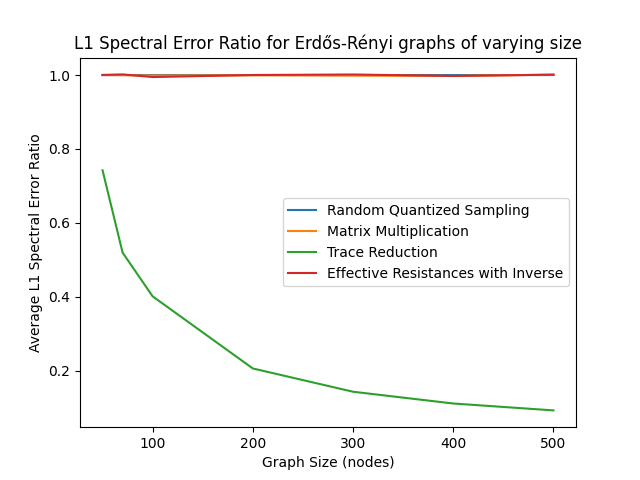
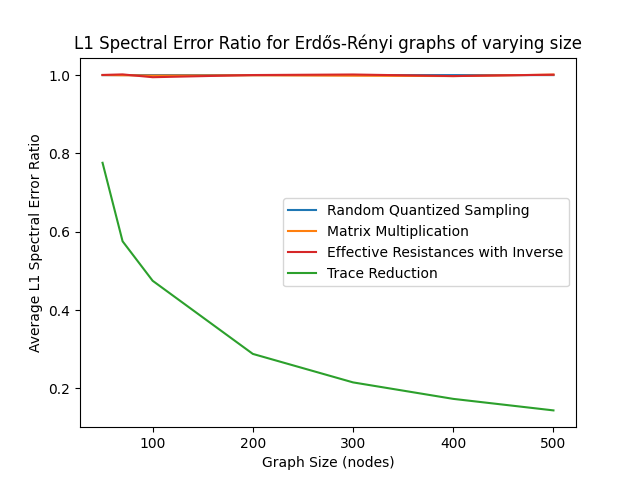
updated plots

diff --git a/exp_condNum.py b/exp_condNum.py
@@ -24,10 +24,10 @@ names = ["RQS", "MM", "TR", "EFI"]
 methods = [methodsMapObj.getMethod(name) for name in names]
 
 graph_gen_size = get_random_weighted_graph
-sizes = [50, 70, 100, 200, 300, 400]#, 500]
+sizes = [50, 70, 100, 200, 300, 400, 500]
 
 graph_gen_density = lambda p : get_random_weighted_graph(100, p)
-p_values = [.1, .15, .2, .25, .3, .4, .5, .6]#, .7, .8]
+p_values = [.1, .15, .2, .25, .3, .4, .5, .6, .7, .8]
 
 
 EXP_NAME = "condNum_comparison_size"
@@ -71,7 +71,7 @@ plt.cla()
 graph_gen_size = get_random_unweighted_graph
 
 EXP_NAME = "condNum_comparison_unweighted_size"
-condition_number_comparison(EXP_NAME, names, methods, graph_gen_size, sizes, eps)
+#condition_number_comparison(EXP_NAME, names, methods, graph_gen_size, sizes, eps)
 
 exp = load(EXP_NAME)
 fix_keys(exp)
@@ -81,7 +81,7 @@ for name in Y_methods.keys():
   Y = Y_methods[name]
   plt.plot(X, Y, label=methodsMapObj.getLabel(name), c=methodsMapObj.getColor(name))
 
-plt.title("Approximate Condition Number for Unweighted Erdős-Rényi graphs of varying size")
+plt.title("Approximate Condition Number for\nUnweighted Erdős-Rényi graphs of varying size")
 plt.xlabel("Graph Size (nodes)")
 plt.ylabel("Approximate Condition Number")
 plt.legend()
@@ -100,7 +100,7 @@ for name in Y_methods.keys():
   Y = Y_methods[name]
   plt.plot(X, Y, label=methodsMapObj.getLabel(name), c=methodsMapObj.getColor(name))
 
-plt.title("Approximate Condition Number for Unweighted Erdős-Rényi graphs of varying density")
+plt.title("Approximate Condition Number for\nUnweighted Erdős-Rényi graphs of varying density")
 plt.xlabel("Edge Probability (p)")
 plt.ylabel("Approximate Condition Number")
 plt.legend()

diff --git a/exp_runtime_all.py b/exp_runtime_all.py
@@ -23,11 +23,10 @@ names = ["ST", "RQS", "MM", "TR", "EFI", "EF"]
 methods = [methodsMapObj.getMethod(name) for name in names]
 
 graph_gen_size = get_random_weighted_graph
-sizes = [50, 70, 100, 200, 300, 400, 500]
+sizes = [50, 70, 100, 150, 200, 250, 300, 400]
 
 graph_gen_density = lambda p : get_random_weighted_graph(100, p)
-p_values = [.1, .15, .2, .25, .3, .4, .5, .6, .7, .8]
-
+p_values = [.1, .15, .2, .25, .3, .4, .5, .6]
 
 
 EXP_NAME = "runtime_comparison_all_size"
@@ -71,8 +70,10 @@ plt.cla()
 
 
 
-names = ["ST", "RQS", "MM", "TR", "EFI"]
+names = ["ST", "RQS", "MM", "EFI"]
 methods = [methodsMapObj.getMethod(name) for name in names]
+sizes = [50, 70, 100, 200, 300, 400, 500, 700, 1000]
+p_values = [.1, .15, .2, .25, .3, .4, .5, .6, .7, .8, .9]
 
 EXP_NAME = "runtime_comparison_sub_size"
 runtime_comparison(EXP_NAME, names, methods, graph_gen_size, sizes, eps)

diff --git a/exp_error.py b/exp_error.py
@@ -24,10 +24,10 @@ names = ["RQS", "MM", "TR", "EFI"]
 methods = [methodsMapObj.getMethod(name) for name in names]
 
 graph_gen_size = get_random_weighted_graph
-sizes = [50, 70, 100, 200, 300, 400]#, 500]
+sizes = [50, 70, 100, 200, 300, 400, 500]
 
 graph_gen_density = lambda p : get_random_weighted_graph(100, p)
-p_values = [.1, .15, .2, .25, .3, .4, .5, .6]#, .7, .8]
+p_values = [.1, .15, .2, .25, .3, .4, .5, .6, .7, .8]
 
 
 
